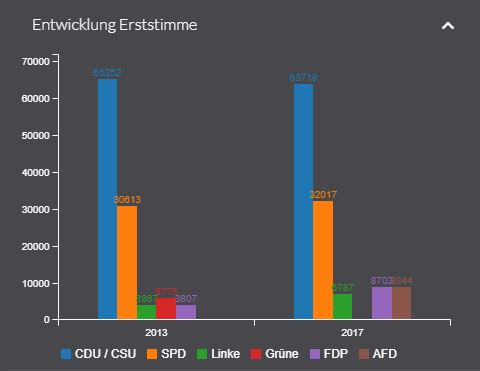
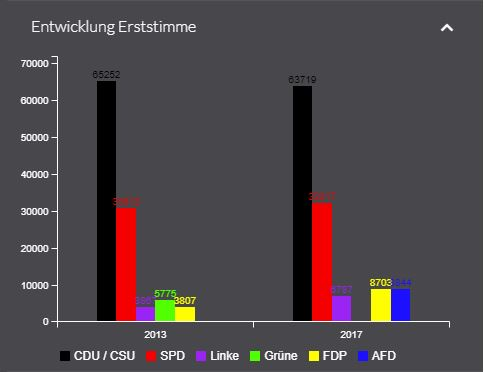
Update README

Changed region(s): [[0.0312, 0.1482, 0.9375, 0.9784], [0.0625, 0.0296, 0.4062, 0.0889], [0.9062, 0.0593, 0.9688, 0.0889]]

diff --git a/README.md b/README.md
@@ -221,6 +221,14 @@ https://developernetwork.conterra.de/en/documentation/mapapps/39/developers-docu
             "title": "AFD"
         }
     ],
+    "colorPattern": [
+        "#000000",
+        "#FF0000",
+        "#A020F0",
+        "#00FF00",
+        "#FFFF00",
+        "#0000FF"
+    ],
     "calculationType": "sum",
     "dataOrientation": "rows",
     "showDataLabels": true,
@@ -247,42 +255,48 @@ https://developernetwork.conterra.de/en/documentation/mapapps/39/developers-docu
             "attributes": [
                 "btw17_WKR_cducsu_erst13",
                 "btw17_WKR_cducsu_erst"
-            ]
+            ],
+            "color": "#000000"
         },
         {
             "title": "SPD",
             "attributes": [
                 "btw17_WKR_spd_erst13",
                 "btw17_WKR_spd_erst"
-            ]
+            ],
+            "color": "#FF0000"
         },
         {
             "title": "Linke",
             "attributes": [
                 "btw17_WKR_linke_erst13",
                 "btw17_WKR_linke_erst"
-            ]
+            ],
+            "color": "#A020F0"
         },
         {
             "title": "Grüne",
             "attributes": [
                 "btw17_WKR_gruene_erst13",
                 "btw17_WKR_gruene_erst"
-            ]
+            ],
+            "color": "#00FF00"
         },
         {
             "title": "FDP",
             "attributes": [
                 "btw17_WKR_fdp_erst13",
                 "btw17_WKR_fdp_erst"
-            ]
+            ],
+            "color": "#FFFF00"
         },
         {
             "title": "AFD",
             "attributes": [
                 "btw17_WKR_afd_erst13",
                 "btw17_WKR_afd_erst"
-            ]
+            ],
+            "color": "#0000FF"
         }
     ],
     "calculationType": "sum",
@@ -306,47 +320,54 @@ https://developernetwork.conterra.de/en/documentation/mapapps/39/developers-docu
         "2017"
     ],
     "dataSeries": [
+        
         {
             "title": "CDU / CSU",
             "attributes": [
                 "btw17_WKR_cducsu_erst13",
                 "btw17_WKR_cducsu_erst"
-            ]
+            ],
+            "color": "#000000"
         },
         {
             "title": "SPD",
             "attributes": [
                 "btw17_WKR_spd_erst13",
                 "btw17_WKR_spd_erst"
-            ]
+            ],
+            "color": "#FF0000"
         },
         {
             "title": "Linke",
             "attributes": [
                 "btw17_WKR_linke_erst13",
                 "btw17_WKR_linke_erst"
-            ]
+            ],
+            "color": "#A020F0"
         },
         {
             "title": "Grüne",
             "attributes": [
                 "btw17_WKR_gruene_erst13",
                 "btw17_WKR_gruene_erst"
-            ]
+            ],
+            "color": "#00FF00"
         },
         {
             "title": "FDP",
             "attributes": [
                 "btw17_WKR_fdp_erst13",
                 "btw17_WKR_fdp_erst"
-            ]
+            ],
+            "color": "#FFFF00"
         },
         {
             "title": "AFD",
             "attributes": [
                 "btw17_WKR_afd_erst13",
                 "btw17_WKR_afd_erst"
-            ]
+            ],
+            "color": "#0000FF"
         }
     ],
     "groups": [
@@ -376,47 +397,54 @@ https://developernetwork.conterra.de/en/documentation/mapapps/39/developers-docu
         "2017"
     ],
     "dataSeries": [
+        
         {
             "title": "CDU / CSU",
             "attributes": [
                 "btw17_WKR_cducsu_erst13",
                 "btw17_WKR_cducsu_erst"
-            ]
+            ],
+            "color": "#000000"
         },
         {
             "title": "SPD",
             "attributes": [
                 "btw17_WKR_spd_erst13",
                 "btw17_WKR_spd_erst"
-            ]
+            ],
+            "color": "#FF0000"
         },
         {
             "title": "Linke",
             "attributes": [
                 "btw17_WKR_linke_erst13",
                 "btw17_WKR_linke_erst"
-            ]
+            ],
+            "color": "#A020F0"
         },
         {
             "title": "Grüne",
             "attributes": [
                 "btw17_WKR_gruene_erst13",
                 "btw17_WKR_gruene_erst"
-            ]
+            ],
+            "color": "#00FF00"
         },
         {
             "title": "FDP",
             "attributes": [
                 "btw17_WKR_fdp_erst13",
                 "btw17_WKR_fdp_erst"
-            ]
+            ],
+            "color": "#FFFF00"
         },
         {
             "title": "AFD",
             "attributes": [
                 "btw17_WKR_afd_erst13",
                 "btw17_WKR_afd_erst"
-            ]
+            ],
+            "color": "#0000FF"
         }
     ],
     "calculationType": "sum",
@@ -461,6 +489,14 @@ https://developernetwork.conterra.de/en/documentation/mapapps/39/developers-docu
             "title": "AFD"
         }
     ],
+    "colorPattern": [
+        "#000000",
+        "#FF0000",
+        "#A020F0",
+        "#00FF00",
+        "#FFFF00",
+        "#0000FF"
+    ],
     "calculationType": "sum",
     "dataOrientation": "rows",
     "showDataLabels": true,
@@ -502,6 +538,14 @@ https://developernetwork.conterra.de/en/documentation/mapapps/39/developers-docu
            "attribute": "btw17_WKR_afd_erst",
             "title": "AFD"
         }
+    ],
+    "colorPattern": [
+        "#000000",
+        "#FF0000",
+        "#A020F0",
+        "#00FF00",
+        "#FFFF00",
+        "#0000FF"
     ],
     "calculationType": "sum",
     "dataOrientation": "rows",
